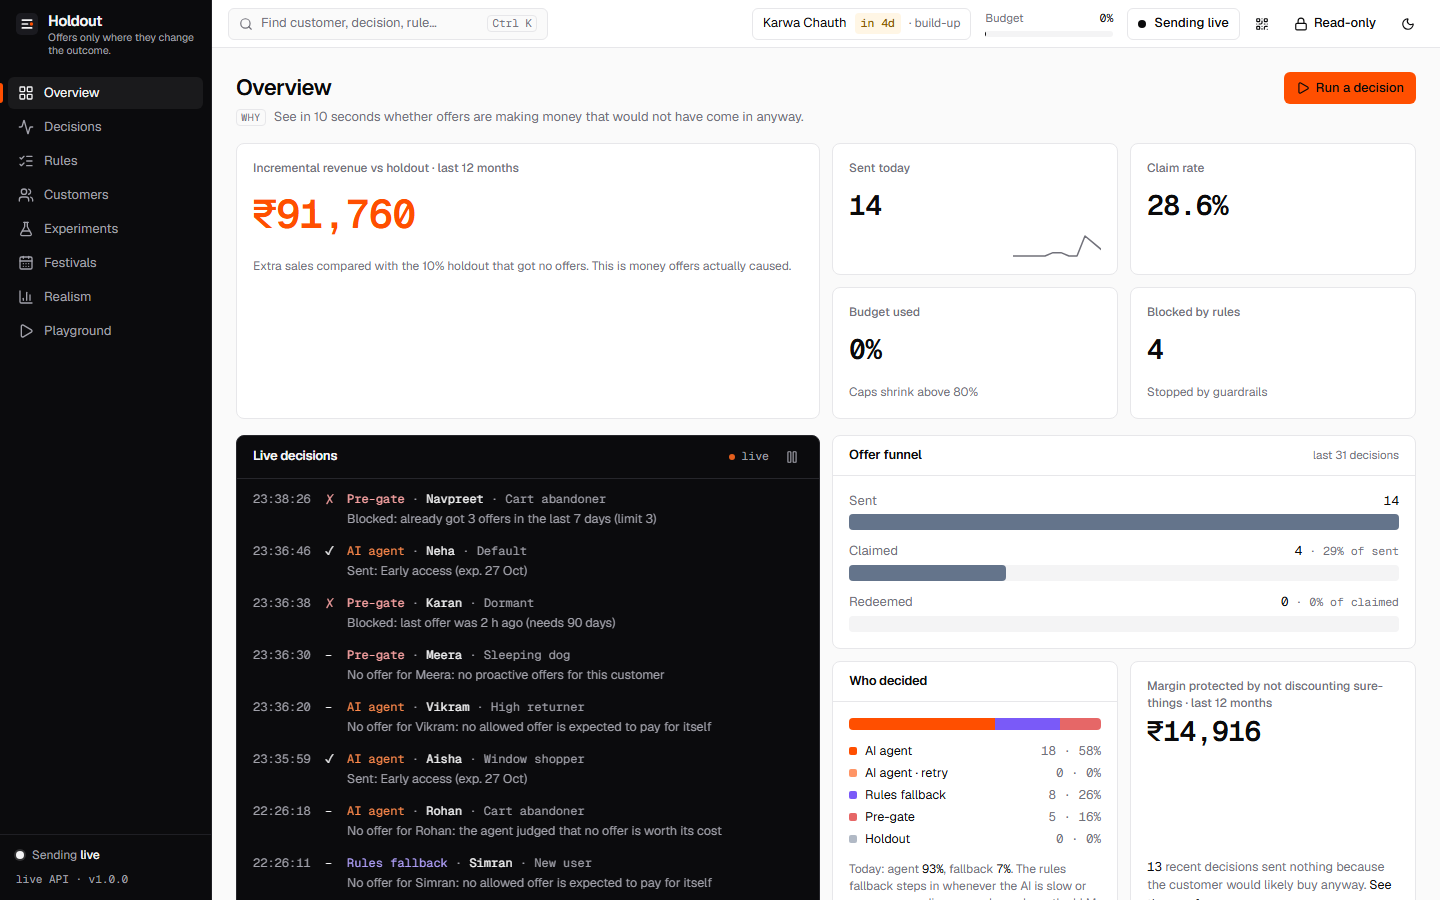
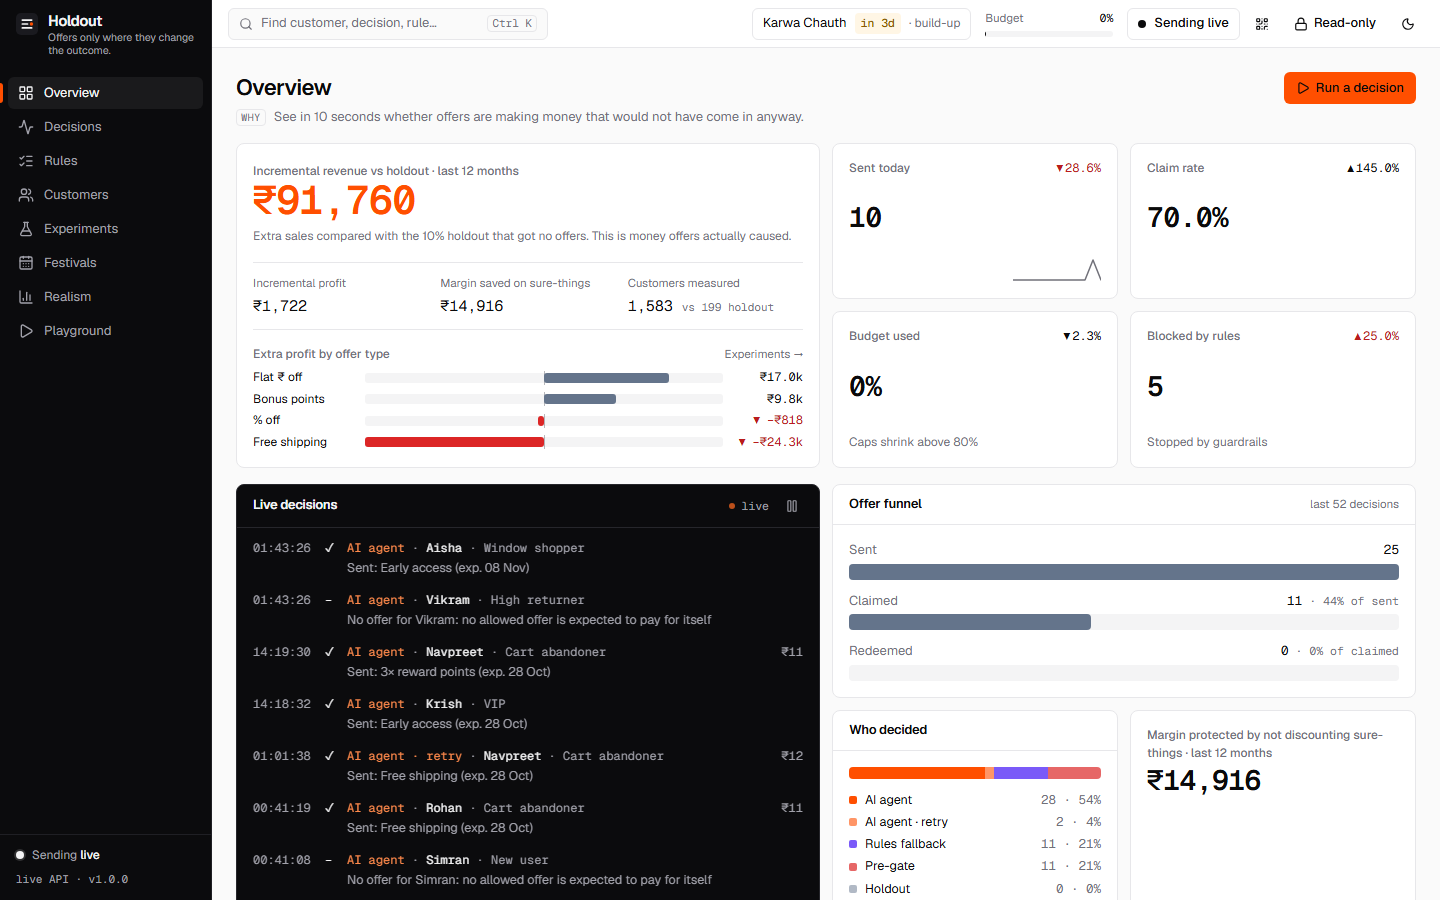
fix(dashboard): fill overview hero with 12-month evidence and stretch the live stream to the column height

diff --git a/frontend/src/pages/overview/HeroCard.tsx b/frontend/src/pages/overview/HeroCard.tsx
@@ -1,0 +1,87 @@
+import { useQuery } from '@tanstack/react-query'
+import { useState, type ReactNode } from 'react'
+import { Link } from 'react-router-dom'
+import { Money } from '@/components/Money'
+import { api } from '@/lib/api'
+import { offerLabel } from '@/lib/takeaways'
+import { cn, formatInrCompact, formatInt } from '@/lib/utils'
+
+const isoIst = (d: Date) => new Intl.DateTimeFormat('en-CA', { timeZone: 'Asia/Kolkata' }).format(d)
+
+/**
+ * The one orange number, plus the 12-month evidence behind it so the card isn't half empty:
+ * supporting stats and extra profit by offer type (same query as the Experiments page).
+ */
+export function HeroCard({ revenue, className }: { revenue?: number; className?: string }) {
+  const [today] = useState(() => new Date())
+  const end = isoIst(today)
+  const start = isoIst(new Date(today.getTime() - 365 * 86_400_000))
+  const { data: e } = useQuery({ queryKey: ['experiments', start, end], queryFn: () => api.experiments(start, end), staleTime: 5 * 60_000 })
+
+  const roi = [...(e?.roi_by_offer_type ?? [])].filter((r) => r.n >= 10).sort((a, b) => b.incremental_profit - a.incremental_profit).slice(0, 5)
+  const max = Math.max(1, ...roi.map((r) => Math.abs(r.incremental_profit)))
+  const hasNeg = roi.some((r) => r.incremental_profit < 0)
+
+  return (
+    <section aria-label="Incremental revenue" className={cn('flex flex-col gap-4 rounded-[8px] border border-line bg-surface p-4', className)}>
+      <div className="space-y-2">
+        <span className="text-[12px] font-medium text-muted">Incremental revenue vs holdout · last 12 months</span>
+        <div className="num title whitespace-nowrap text-[clamp(28px,3.2vw,40px)] leading-none text-signal">
+          {revenue !== undefined ? <Money value={revenue} /> : '…'}
+        </div>
+        <p className="text-[12px] text-muted">Extra sales compared with the 10% holdout that got no offers. This is money offers actually caused.</p>
+      </div>
+
+      <dl className="grid grid-cols-1 gap-1.5 border-y border-line py-3 sm:grid-cols-3 sm:gap-3">
+        <Stat term="Incremental profit">{e ? <Money value={e.incremental_profit} /> : '…'}</Stat>
+        <Stat term="Margin saved on sure-things">{e ? <Money value={e.margin_saved_sure_things} /> : '…'}</Stat>
+        <Stat term="Customers measured">
+          {e ? <>{formatInt(e.treatment.n)} <span className="text-[11px] text-muted">vs {formatInt(e.control.n)} holdout</span></> : '…'}
+        </Stat>
+      </dl>
+
+      <div className="mt-auto space-y-1.5">
+        <div className="flex items-baseline justify-between gap-2">
+          <span className="text-[12px] font-medium text-muted">Extra profit by offer type</span>
+          <Link to="/experiments" className="text-[11.5px] text-muted hover:text-ink">Experiments →</Link>
+        </div>
+        {roi.length ? (
+          <ul className="space-y-1" aria-label="Extra profit by offer type, last 12 months">
+            {roi.map((r) => {
+              const neg = r.incremental_profit < 0
+              const w = `${(Math.abs(r.incremental_profit) / max) * (hasNeg ? 50 : 100)}%`
+              return (
+                <li key={r.type} className="grid grid-cols-[104px_1fr_auto] items-center gap-2 text-[12px]" title={`${offerLabel(r.type)}: ${r.n} offers`}>
+                  <span className="truncate text-ink">{offerLabel(r.type)}</span>
+                  {/* Diverging around a centre line when any type lost money, so ▼ bars read left of zero. */}
+                  <span className="relative h-2.5 rounded-[3px] bg-surface-2">
+                    {hasNeg ? <span aria-hidden className="absolute inset-y-[-2px] left-1/2 w-px bg-muted/50" /> : null}
+                    <span
+                      className={cn('absolute inset-y-0 rounded-[3px]', neg ? 'bg-danger' : 'bg-slate')}
+                      style={hasNeg ? (neg ? { right: '50%', width: w } : { left: '50%', width: w }) : { left: 0, width: w }}
+                    />
+                  </span>
+                  <span className={cn('num min-w-[72px] whitespace-nowrap text-right', neg ? 'text-danger-text' : 'text-ink')}>
+                    {neg ? '▼ ' : ''}{formatInrCompact(r.incremental_profit)}
+                  </span>
+                </li>
+              )
+            })}
+          </ul>
+        ) : (
+          <div className="h-16 animate-pulse rounded-[6px] bg-surface-2" />
+        )}
+      </div>
+    </section>
+  )
+}
+
+function Stat({ term, children }: { term: string; children: ReactNode }) {
+  return (
+    // Phones: one "label ……… value" row each; wider: three columns.
+    <div className="flex min-w-0 items-baseline justify-between gap-2 sm:block">
+      <dt className="truncate text-[11.5px] text-muted" title={term}>{term}</dt>
+      <dd className="num truncate text-[15px] text-ink sm:mt-1">{children}</dd>
+    </div>
+  )
+}

diff --git a/frontend/src/pages/Overview.tsx b/frontend/src/pages/Overview.tsx
@@ -2,13 +2,13 @@ import { useQuery } from '@tanstack/react-query'
 import { Play } from 'lucide-react'
 import { Link } from 'react-router-dom'
 import { Kpi } from '@/components/Kpi'
-import { Money } from '@/components/Money'
 import { PageHeader } from '@/components/PageHeader'
 import { Button } from '@/components/ui/button'
 import { NAV } from '@/app/nav'
 import { api } from '@/lib/api'
 import type { DecisionLight } from '@/lib/types'
 import { formatInt, formatPct } from '@/lib/utils'
+import { HeroCard } from './overview/HeroCard'
 import { LiveStream } from './overview/LiveStream'
 import { AutomationsCard, DecidedByShare, DigestCard, Funnel, MarginCallout, MomentsStrip } from './overview/Panels'
 
@@ -30,7 +30,8 @@ export function Overview() {
   const ds = recent.data?.items ?? []
 
   return (
-    <div className="mx-auto max-w-[1400px] space-y-4 p-4 md:p-6">
+    // A column that fills the viewport, so the middle row can take the leftover height on tall screens.
+    <div className="mx-auto flex min-h-full max-w-[1400px] flex-col gap-4 p-4 md:p-6">
       <PageHeader
         title="Overview"
         why={NAV[0].why}
@@ -42,28 +43,27 @@ export function Overview() {
       />
 
       <section aria-label="Key numbers" className="grid grid-cols-2 gap-3 lg:grid-cols-4">
-        <Kpi
-          hero
-          className="col-span-2 lg:row-span-2"
-          label="Incremental revenue vs holdout · last 12 months"
-          value={k ? <Money value={k.incremental_revenue} /> : '…'}
-          spark={hourly(ds, (d) => d.outcome === 'redeemed')}
-          hint="Extra sales compared with the 10% holdout that got no offers. This is money offers actually caused."
-        />
-        <Kpi label="Sent today" value={k ? formatInt(k.sent_today) : '…'} delta={k?.deltas.sent_today} spark={hourly(ds, (d) => d.status === 'SENT')} />
-        <Kpi label="Claim rate" value={k ? formatPct(k.claim_rate) : '…'} delta={k?.deltas.claim_rate} />
-        <Kpi label="Budget used" value={k ? formatPct(k.budget_used_pct, 0) : '…'} delta={k?.deltas.budget_used_pct} goodWhen="down" hint="Caps shrink above 80%" />
-        <Kpi label="Blocked by rules" value={k ? formatInt(k.blocked_by_rules) : '…'} delta={k?.deltas.blocked_by_rules} goodWhen="down" hint="Stopped by guardrails" />
+        <HeroCard className="col-span-2 lg:row-span-2" revenue={k?.incremental_revenue} />
+        <Kpi className="justify-between" label="Sent today" value={k ? formatInt(k.sent_today) : '…'} delta={k?.deltas.sent_today} spark={hourly(ds, (d) => d.status === 'SENT')} />
+        <Kpi className="justify-between" label="Claim rate" value={k ? formatPct(k.claim_rate) : '…'} delta={k?.deltas.claim_rate} />
+        <Kpi className="justify-between" label="Budget used" value={k ? formatPct(k.budget_used_pct, 0) : '…'} delta={k?.deltas.budget_used_pct} goodWhen="down" hint="Caps shrink above 80%" />
+        <Kpi className="justify-between" label="Blocked by rules" value={k ? formatInt(k.blocked_by_rules) : '…'} delta={k?.deltas.blocked_by_rules} goodWhen="down" hint="Stopped by guardrails" />
       </section>
 
-      <div className="grid gap-3 lg:grid-cols-2">
-        <LiveStream className="h-[520px]" />
-        <div className="grid content-start gap-3 sm:grid-cols-2">
+      <div className="grid gap-3 lg:flex-1 lg:grid-cols-2">
+        {/* The stream is absolutely placed so its long list never sets the row height:
+            the row is as tall as the right column or the leftover viewport, whichever is larger. */}
+        <div className="relative h-[440px] lg:h-auto lg:min-h-[420px]">
+          <LiveStream className="h-full lg:absolute lg:inset-0" />
+        </div>
+        <div className="grid gap-3 sm:grid-cols-2 sm:grid-rows-[auto_auto_1fr]">
           <Funnel className="sm:col-span-2" decisions={ds} />
           <DecidedByShare kpis={k} decisions={ds} />
           <MarginCallout kpis={k} decisions={ds} />
           <AutomationsCard className="sm:col-span-2" />
         </div>
+      </div>
+      <div className="grid gap-3 lg:grid-cols-2">
         <DigestCard />
         <MomentsStrip />
       </div>
